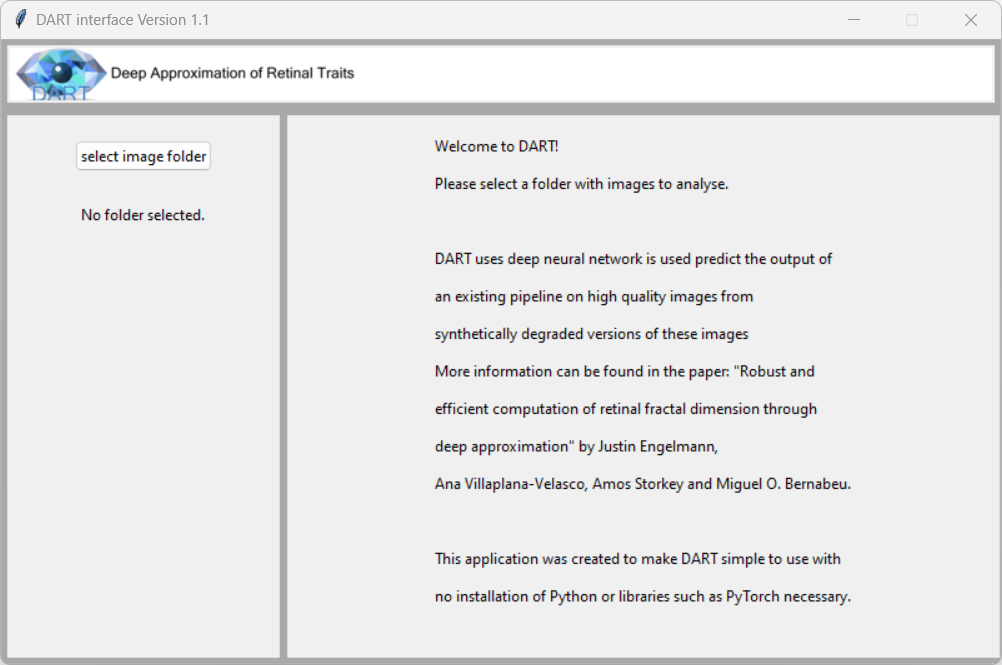
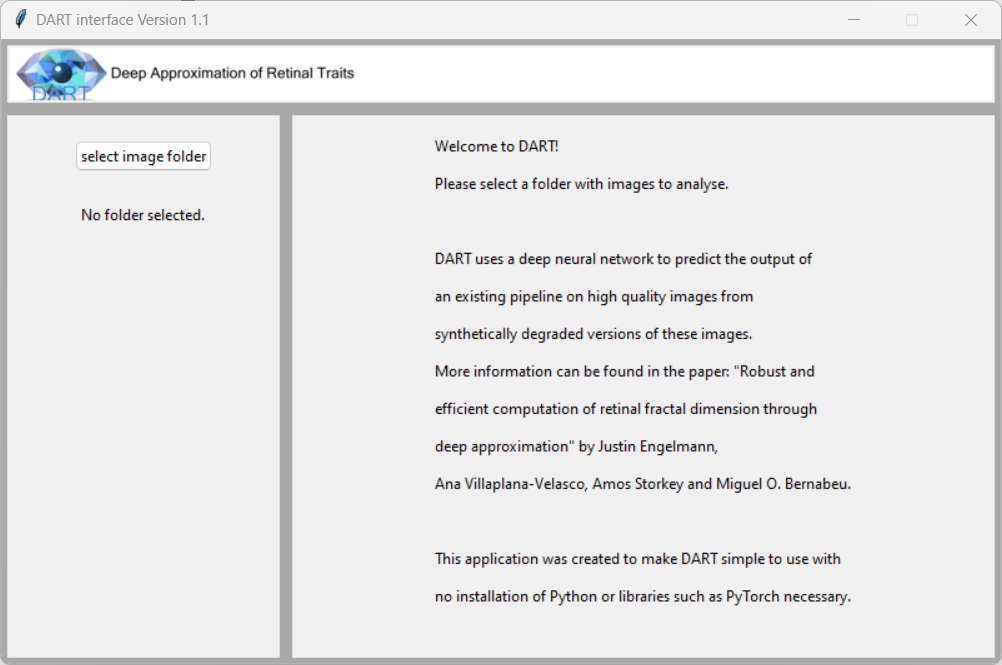
small text changes

Changed region(s): [[0.99, 0.1504, 1.0, 0.9925], [0.2784, 0.1805, 0.3094, 0.9925], [0.495, 0.3609, 0.8353, 0.4211]]

diff --git a/src/gui_interface/menu.py b/src/gui_interface/menu.py
@@ -9,7 +9,7 @@ from .panels import *
 class Menu(ttk.Frame):
     def __init__(self, parent, run_dart_func):
         super().__init__(master=parent)
-        self.grid(row=1, column=1,  padx=1, pady=5, sticky="nsew")
+        self.grid(row=1, column=1,  padx=5, pady=5, sticky="nsew")
 
         self.run_dart_func = run_dart_func
 
@@ -26,9 +26,9 @@ class Menu(ttk.Frame):
                 ("Welcome to DART!" + str(os.linesep)
                  + "Please select a folder with images to analyse." + str(os.linesep)
                  + "" + str(os.linesep)
-                 + "DART uses deep neural network is used predict the output of" + str(os.linesep)
+                 + "DART uses a deep neural network to predict the output of" + str(os.linesep)
                  + "an existing pipeline on high quality images from " + str(os.linesep)
-                 + "synthetically degraded versions of these images" + str(os.linesep)
+                 + "synthetically degraded versions of these images." + str(os.linesep)
                  + "More information can be found in the paper: \"Robust and" + str(os.linesep)
                  + "efficient computation of retinal fractal dimension through " + str(os.linesep)
                  + "deep approximation\" by Justin Engelmann, " + str(os.linesep)
